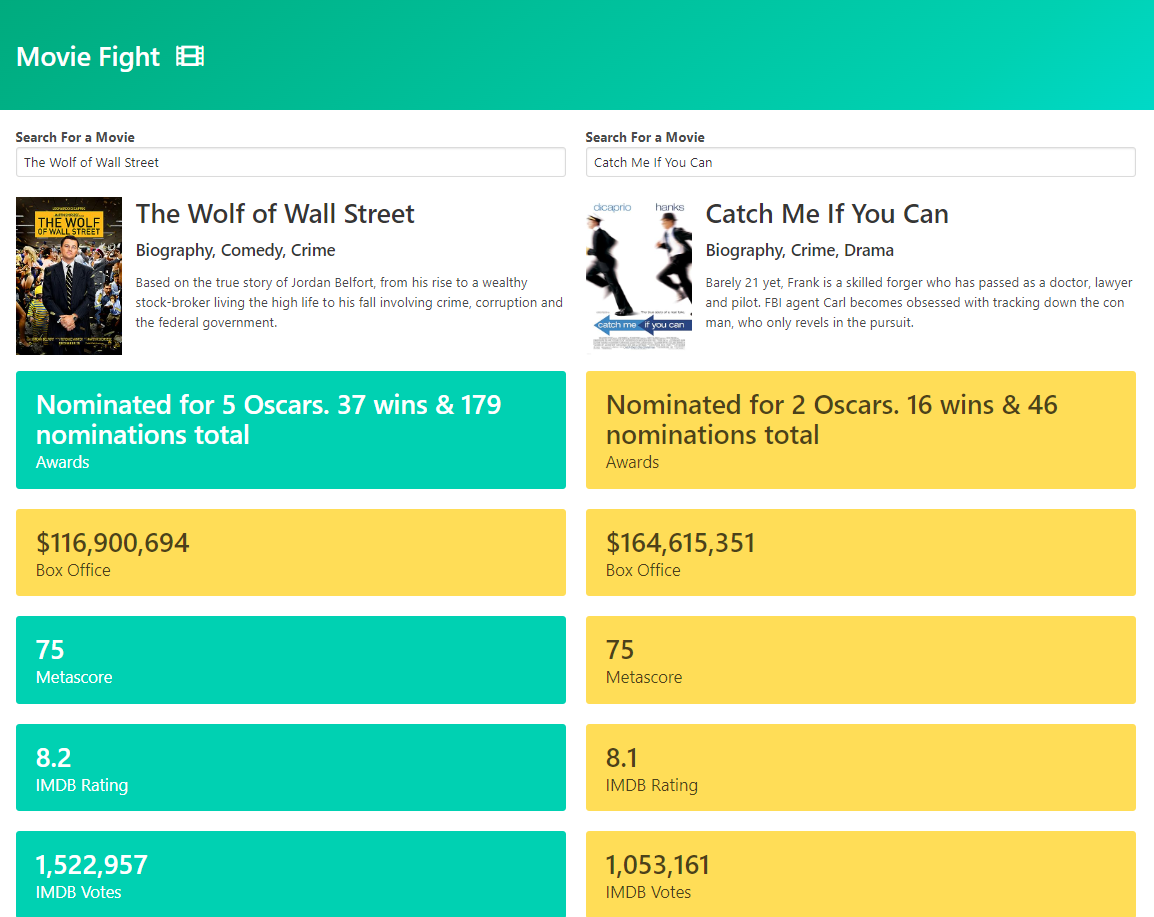
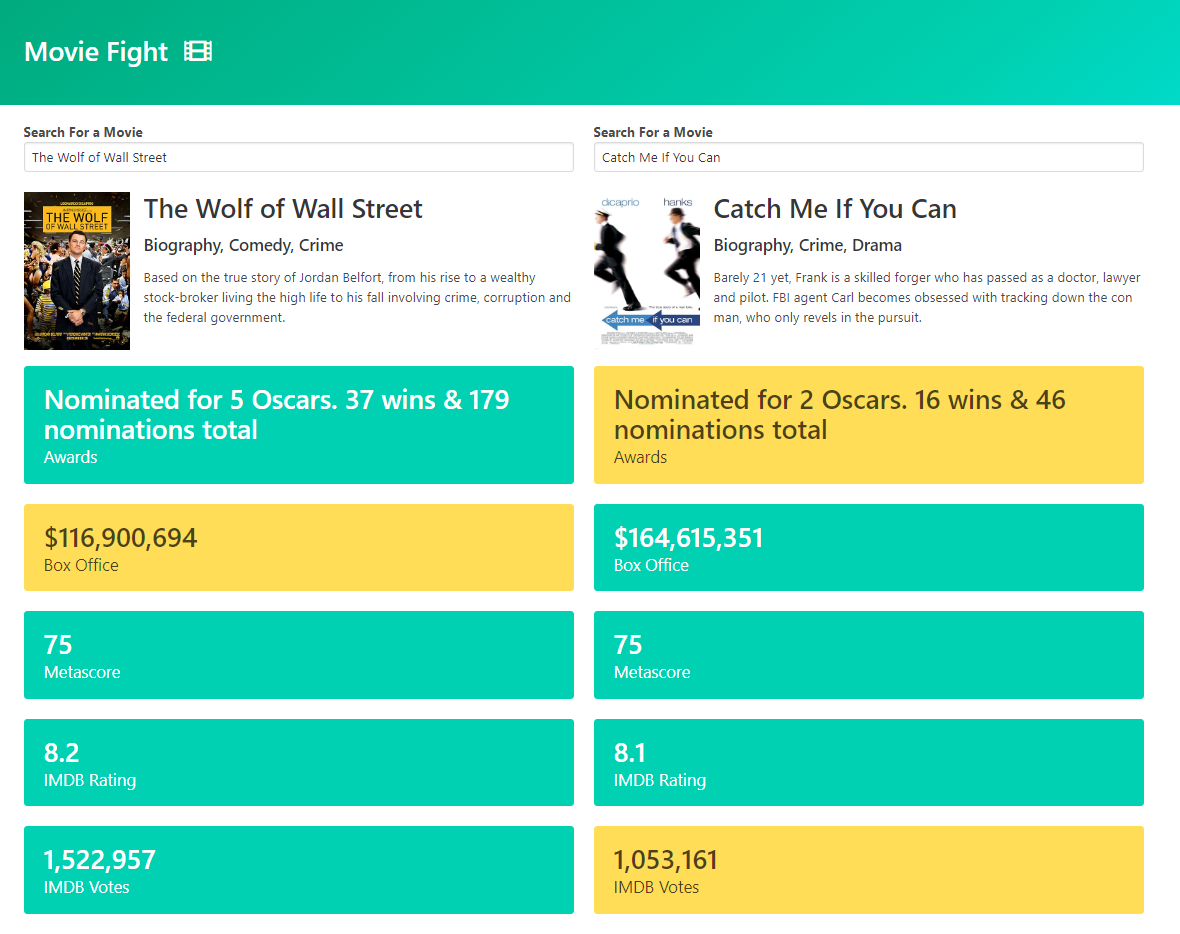
updated read me

diff --git a/index.js b/index.js
@@ -81,7 +81,7 @@ const runComparison = () => {
       leftMovieStats[index].classList.remove('is-primary');
       leftMovieStats[index].classList.add('is-warning');
     }
-    else{
+    else if(leftValue > rightValue){
       rightMovieStats[index].classList.remove('is-primary');
       rightMovieStats[index].classList.add('is-warning');
     }
@@ -89,7 +89,7 @@ const runComparison = () => {
 }
 
 const movieTemplate = (movieDetail) => {
-  const boxOfficeCollection = parseInt(movieDetail.BoxOffice.replace(/\$/g,'').replace(/,/g,''));
+  const boxOfficeCollection = parseInt(movieDetail.BoxOffice.replace(/\$/,'').replace(/,/g,''));
   const metaScore = parseInt(movieDetail.Metascore);
   const imdbRating = parseFloat(movieDetail.imdbRating);
   const imdbVotes = parseInt(movieDetail.imdbVotes.replace(/,/g,''));

diff --git a/README.md b/README.md
@@ -17,6 +17,9 @@
 ![Alt text](image.png)
 
 
+![Alt text](image-1.png)
+
+
 ![Alt text](image-2.png)
 
 
